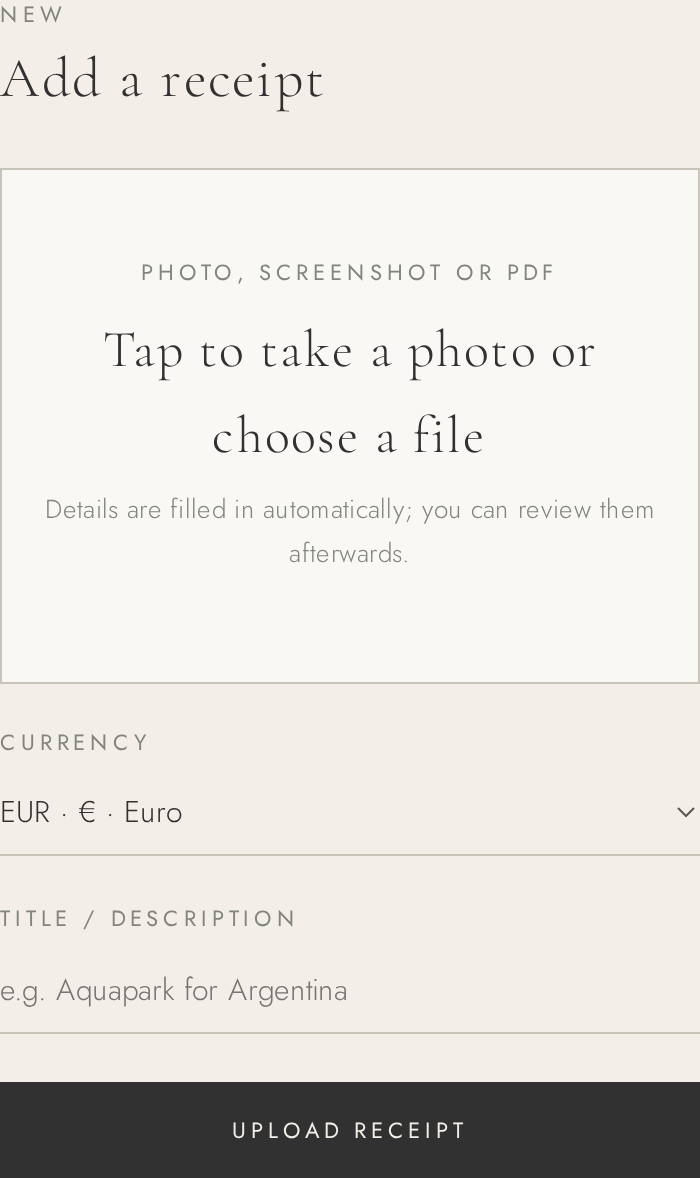
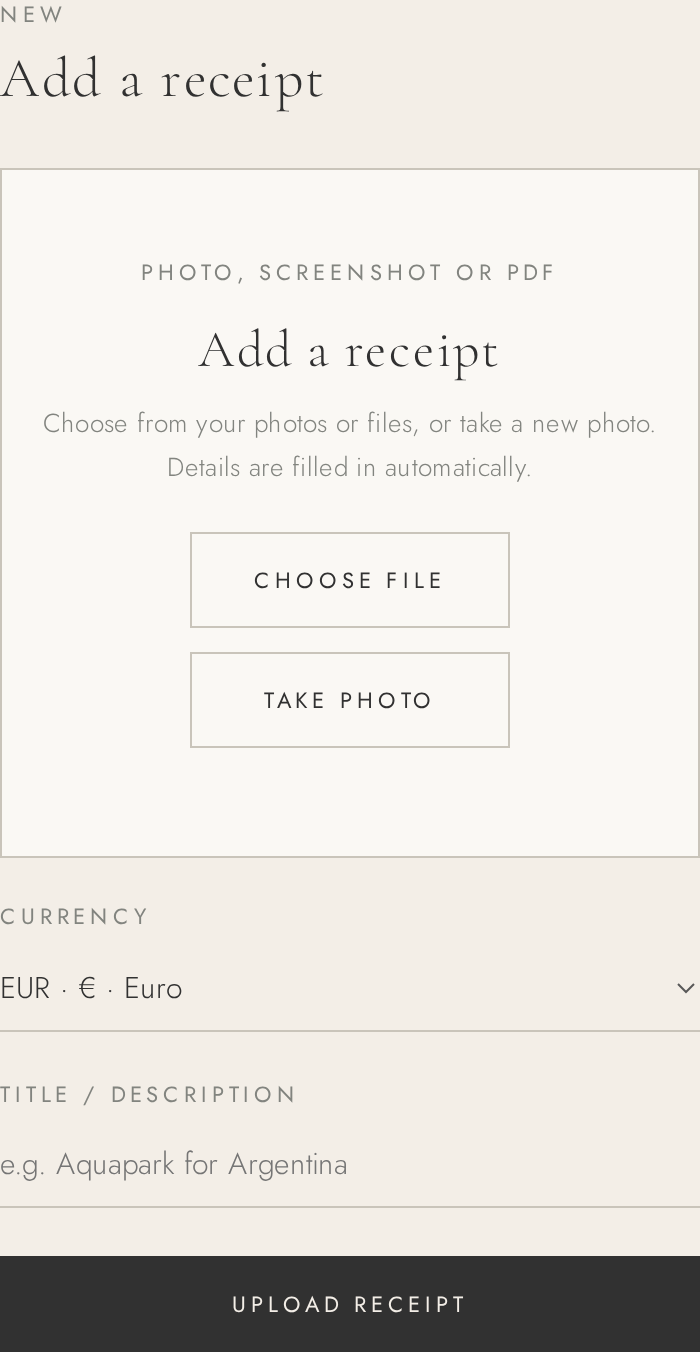
Upload: native iOS/Android chooser (no capture on main input), separate Take photo / Choose file buttons, HEIC support, EXIF rotation

diff --git a/ui.py b/ui.py
@@ -67,6 +67,7 @@ main{max-width:1180px;margin:0 auto;padding:0 clamp(20px,5vw,64px) 120px}
 .drop:hover,.drop.over{background:#fff;border-color:var(--ink2)}
 .drop input{position:absolute;opacity:0;width:1px;height:1px}
 .drop .serif{font-size:26px;margin:10px 0 4px}
+.drop .pick{display:flex;gap:12px;justify-content:center;flex-wrap:wrap;margin-top:22px}.drop .pick .btn{min-width:160px;background:var(--paper)}.drop .pick .btn:hover{background:var(--ink);color:var(--sand);border-color:var(--ink)}
 .drop .hint{font-size:13px;color:var(--stone)}
 .upbar{display:flex;gap:24px;align-items:end;margin-top:22px}.upbar .field{flex:1}.upbar .cur{flex:0 0 250px}
 .drop .files{margin-top:10px;font-size:13px;color:var(--ink2)}
@@ -169,9 +170,12 @@ INDEX = HEAD + """<title>Receipts · Expenses to claim</title></head><body>""" +
 
 <section class=section id=add><div class=section-head><div><div class=label>New</div><h2>Add a receipt</h2></div></div>
 <form method=post action="/upload" enctype=multipart/form-data id=up>
-<label class=drop id=drop><input type=file name=file accept="image/*,application/pdf" capture=environment multiple required id=file>
-<div class=label>Photo, screenshot or PDF</div><div class=serif>Tap to take a photo or choose a file</div>
-<div class=hint>Details are filled in automatically; you can review them afterwards.</div><div class=files id=files></div></label>
+<div class=drop id=drop><input type=file name=file accept="image/*,application/pdf,.heic,.heif" multiple id=file>
+<input type=file name=file accept="image/*,.heic,.heif" capture=environment id=cam>
+<div class=label>Photo, screenshot or PDF</div><div class=serif>Tap to choose a receipt</div>
+<div class=hint>Choose from your photos or files, or take a new photo. Details are filled in automatically.</div>
+<div class=pick><label for=file class="btn ghost">Choose file</label><label for=cam class="btn ghost">Take photo</label></div>
+<div class=files id=files></div></div>
 <div class=upbar><label class="field cur"><span class=label>Currency</span><select name=currency>{{curopts(last_cur)}}</select></label><label class=field><span class=label>Title / description</span><input name=title placeholder="e.g. Aquapark for Argentina" maxlength=200></label><button class=btn>Upload receipt</button></div></form></section>
 
 <section class=section><div class=section-head><div><div class=label>Archive</div><h2>All receipts</h2></div></div>
@@ -198,11 +202,14 @@ INDEX = HEAD + """<title>Receipts · Expenses to claim</title></head><body>""" +
 <p class=note>Exports include the selected receipts or, if none are selected, all filtered ones.</p></form></section></main>
 <script>
 const all=document.getElementById('all');all&&all.addEventListener('change',()=>document.querySelectorAll('.ck').forEach(c=>c.checked=all.checked));
-const f=document.getElementById('file'),d=document.getElementById('drop'),o=document.getElementById('files');
-f.addEventListener('change',()=>{o.textContent=[...f.files].map(x=>x.name).join(' · ')});
+const f=document.getElementById('file'),cam=document.getElementById('cam'),d=document.getElementById('drop'),o=document.getElementById('files');
+const show=()=>{o.textContent=[...f.files,...cam.files].map(x=>x.name).join(' · ')};
+f.addEventListener('change',show);cam.addEventListener('change',show);
+d.addEventListener('click',ev=>{if(!ev.target.closest('label,input'))f.click()});
 ['dragover','dragenter'].forEach(e=>d.addEventListener(e,ev=>{ev.preventDefault();d.classList.add('over')}));
 ['dragleave','drop'].forEach(e=>d.addEventListener(e,ev=>{ev.preventDefault();d.classList.remove('over')}));
-d.addEventListener('drop',ev=>{f.files=ev.dataTransfer.files;f.dispatchEvent(new Event('change'))});
+d.addEventListener('drop',ev=>{f.files=ev.dataTransfer.files;show()});
+document.getElementById('up').addEventListener('submit',ev=>{if(!f.files.length&&!cam.files.length){ev.preventDefault();o.textContent='Please choose a file or take a photo first.'}});
 </script></body></html>"""
 
 EDIT = HEAD + """<title>Receipt · {{r.title or r.merchant}}</title></head><body>""" + TOP + """<main><div class=edit>

diff --git a/app.py b/app.py
@@ -1,6 +1,9 @@
 import os, re, io, csv, sqlite3, subprocess, uuid, datetime
 from flask import Flask, request, redirect, url_for, render_template_string, send_from_directory, Response, g, flash
 from PIL import Image
+try:
+    from pillow_heif import register_heif_opener; register_heif_opener()  # iPhone HEIC/HEIF photos
+except ImportError: pass
 BASE = os.path.dirname(os.path.abspath(__file__))
 DATA = os.environ.get("DATA_DIR", BASE)
 UP = os.path.join(DATA, "uploads"); TH = os.path.join(DATA, "thumbs")
@@ -55,7 +58,8 @@ def make_preview(path):
         if not os.path.exists(src): return None
         img = Image.open(src)
     else:
-        img = Image.open(path)
+        from PIL import ImageOps
+        img = ImageOps.exif_transpose(Image.open(path))  # respect phone rotation
     img = img.convert("RGB"); img.thumbnail((1400,1400))
     fn = name + "_p.jpg"; img.save(os.path.join(TH, fn), quality=85)
     return fn
